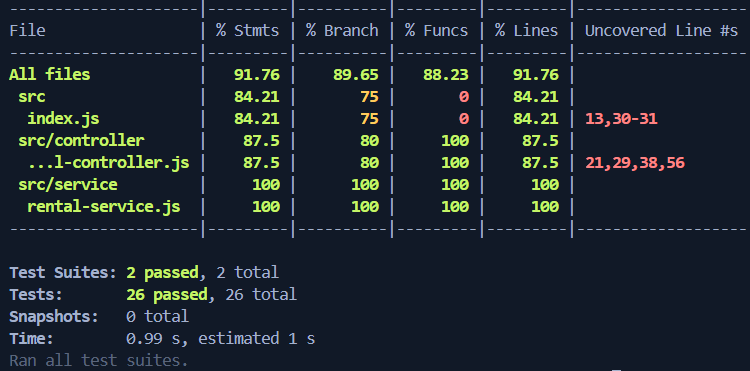
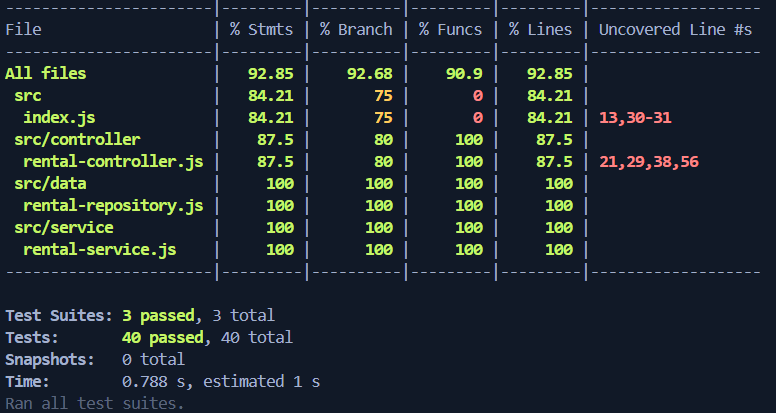
Refactor ESLint configuration for goat-service and rental-service; update rapport files and images
- Improved formatting and structure of ESLint configuration files for better readability.
- Updated references and labels in rapport.aux, rapport.fdb_latexmk, rapport.fls, rapport.log, rapport.pdf, rapport.tex, rapport.toc, and rapport.synctex.gz to reflect changes in content and structure.
- Adjusted image references and sizes in rapport.pdf to ensure correct display.
- Enhanced clarity in the rapport.tex document by refining text descriptions and removing unnecessary placeholders.

diff --git a/rapport/rapport.tex b/rapport/rapport.tex
@@ -396,7 +396,7 @@ Endpoints testés:
 
 \begin{center}
     \fbox{\parbox{14cm}{
-            \texttt{rental-service/tests/rental-repository.test.js} --- \textit{[À ajouter: tests du RentalRepository]}
+            \texttt{rental-service/tests/rental-repository.test.js} --- Tests du \texttt{RentalRepository}
         }}
 \end{center}
 
@@ -423,12 +423,6 @@ Le pipeline CI impose les seuils minimums suivants:
 
 Les rapports de couverture sont générés par Jest (\texttt{lcov}) et uploadés
 comme artifacts GitHub Actions.
-
-\begin{center}
-    \fbox{\parbox{14cm}{
-            \textit{}
-        }}
-\end{center}
 
 \chapter{Rapport de Qualité}
 
@@ -523,15 +517,15 @@ Le repository est public et accessible à:
 
 Le projet \textbf{GoatUdder} respecte l'ensemble des exigences DevOps:
 \begin{itemize}[leftmargin=*]
-    \item $\checkmark$ Dépôt Git structuré
-    \item $\checkmark$ Pipeline CI avec GitHub Actions
-    \item $\checkmark$ Architecture en couches (Data, Service, Controller)
-    \item $\checkmark$ 2 services back conteneurisés (Goat Service, Rental Service)
-    \item $\checkmark$ Tests de toutes les couches (unitaires, mocks web)
-    \item $\checkmark$ Couverture de code $\geq 80\%$
-    \item $\checkmark$ Qualité logicielle (SonarQube, ESLint)
-    \item $\checkmark$ Frontend web
-    \item $\checkmark$ Base de données PostgreSQL
+    \item Dépôt Git structuré
+    \item Pipeline CI avec GitHub Actions
+    \item Architecture en couches (Data, Service, Controller)
+    \item 2 services back conteneurisés (Goat Service, Rental Service)
+    \item Tests de toutes les couches (unitaires, mocks web)
+    \item Couverture de code $\geq 80\%$
+    \item Qualité logicielle (SonarQube, ESLint)
+    \item Frontend web
+    \item Base de données PostgreSQL
 \end{itemize}
 
 \end{document}